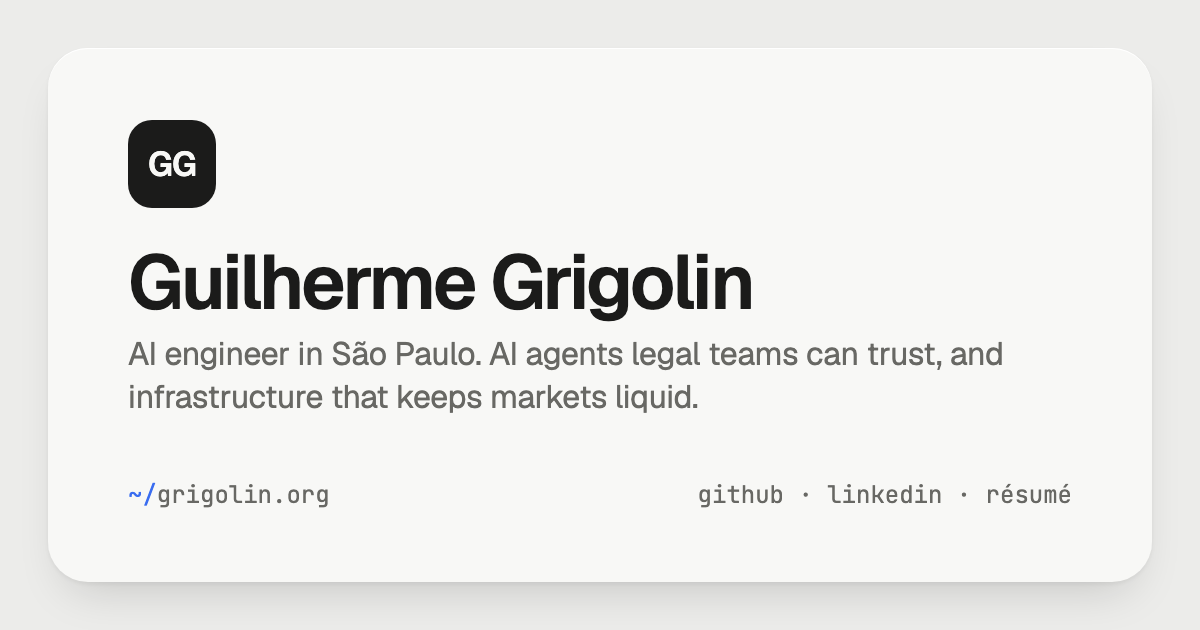
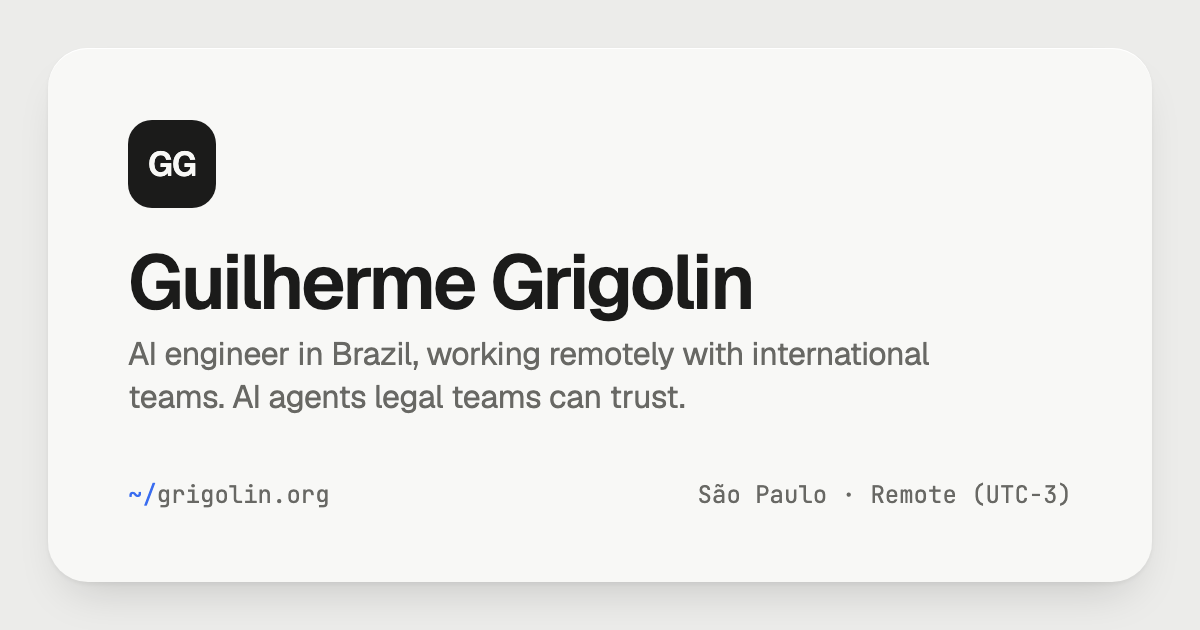
Position for remote international roles: title without city, 'working remotely with international teams', Remote (UTC−3) (#22)

Changed region(s): [[0.0925, 0.5429, 0.8325, 0.6635], [0.5858, 0.754, 0.8942, 0.8143]]

diff --git a/index.html b/index.html
@@ -3,25 +3,25 @@
 <head>
 <meta charset="UTF-8">
 <meta name="viewport" content="width=device-width, initial-scale=1, viewport-fit=cover">
-<title>Guilherme Grigolin — AI Engineer in São Paulo</title>
+<title>Guilherme Grigolin — AI Engineer · LLM agents, RAG, evals</title>
 <link rel="canonical" href="https://grigolin.org/">
-<meta name="description" content="Guilherme Grigolin is an AI engineer in São Paulo, Brazil, building a legal research agent at Concurrences. Experience, projects, résumé and contact.">
+<meta name="description" content="Guilherme Grigolin is an AI engineer building LLM agents, RAG and evals for legal research at Concurrences. Works remotely with international teams from Brazil (UTC−3).">
 <meta property="og:title" content="Guilherme Grigolin">
-<meta property="og:description" content="AI engineer in São Paulo. AI agents legal teams can trust, and infrastructure that keeps markets liquid.">
+<meta property="og:description" content="AI engineer in Brazil, working remotely with international teams. AI agents legal teams can trust, and infrastructure that keeps markets liquid.">
 <meta property="og:url" content="https://grigolin.org/">
 <meta property="og:type" content="website">
 <meta property="og:site_name" content="Guilherme Grigolin">
 <meta property="og:image" content="https://grigolin.org/images/og.png">
 <meta property="og:image:width" content="1200">
 <meta property="og:image:height" content="630">
-<meta property="og:image:alt" content="Guilherme Grigolin — AI engineer in São Paulo">
+<meta property="og:image:alt" content="Guilherme Grigolin — AI engineer, remote from Brazil">
 <meta name="twitter:card" content="summary_large_image">
 <meta property="og:locale" content="en_US">
 <meta property="og:locale:alternate" content="pt_BR">
 <meta name="author" content="Guilherme Grigolin">
 <link rel="me" href="https://github.com/grigolin">
 <link rel="me" href="https://www.linkedin.com/in/grigolin/">
-<script type="application/ld+json">{"@context":"https://schema.org","@graph":[{"@type":"ProfilePage","@id":"https://grigolin.org/#page","url":"https://grigolin.org/","name":"Guilherme Grigolin — AI Engineer","inLanguage":["en","pt-BR"],"dateModified":"2026-11-06","mainEntity":{"@id":"https://grigolin.org/#person"},"isPartOf":{"@id":"https://grigolin.org/#site"}},{"@type":"WebSite","@id":"https://grigolin.org/#site","url":"https://grigolin.org/","name":"Guilherme Grigolin","publisher":{"@id":"https://grigolin.org/#person"}},{"@type":"Person","@id":"https://grigolin.org/#person","name":"Guilherme Grigolin","alternateName":"grigolin","url":"https://grigolin.org/","email":"mailto:guigrigolin@gmail.com","jobTitle":"AI Engineer","image":"https://grigolin.org/images/guilherme-grigolin.jpg","description":"AI engineer in São Paulo, Brazil. Builds AI agents legal teams can trust, and infrastructure that keeps markets liquid.","worksFor":{"@type":"Organization","name":"Concurrences","url":"https://www.concurrences.com/"},"affiliation":{"@type":"CollegeOrUniversity","name":"Instituto Federal de São Paulo (IFSP)","alternateName":"Federal Institute of São Paulo","url":"https://www.ifsp.edu.br/"},"homeLocation":{"@type":"Place","name":"São Paulo, Brazil"},"nationality":{"@type":"Country","name":"Brazil"},"knowsLanguage":["pt-BR","en"],"knowsAbout":["Artificial intelligence","Large language models","AI agents","Retrieval-augmented generation","Legal tech","Prediction markets","Solana","Python","Go","TypeScript","LangChain","FastAPI","PostgreSQL"],"sameAs":["https://github.com/grigolin","https://www.linkedin.com/in/grigolin/"],"subjectOf":{"@type":"DigitalDocument","name":"Guilherme Grigolin — Résumé","url":"https://grigolin.org/resources/resume.pdf","encodingFormat":"application/pdf"}}]}</script>
+<script type="application/ld+json">{"@context":"https://schema.org","@graph":[{"@type":"ProfilePage","@id":"https://grigolin.org/#page","url":"https://grigolin.org/","name":"Guilherme Grigolin — AI Engineer","inLanguage":["en","pt-BR"],"dateModified":"2026-11-06","mainEntity":{"@id":"https://grigolin.org/#person"},"isPartOf":{"@id":"https://grigolin.org/#site"}},{"@type":"WebSite","@id":"https://grigolin.org/#site","url":"https://grigolin.org/","name":"Guilherme Grigolin","publisher":{"@id":"https://grigolin.org/#person"}},{"@type":"Person","@id":"https://grigolin.org/#person","name":"Guilherme Grigolin","alternateName":"grigolin","url":"https://grigolin.org/","email":"mailto:guigrigolin@gmail.com","jobTitle":"AI Engineer","image":"https://grigolin.org/images/guilherme-grigolin.jpg","description":"AI engineer in Brazil (UTC−3), working remotely with international teams. Builds AI agents legal teams can trust, and infrastructure that keeps markets liquid.","worksFor":{"@type":"Organization","name":"Concurrences","url":"https://www.concurrences.com/"},"affiliation":{"@type":"CollegeOrUniversity","name":"Instituto Federal de São Paulo (IFSP)","alternateName":"Federal Institute of São Paulo","url":"https://www.ifsp.edu.br/"},"homeLocation":{"@type":"Place","name":"São Paulo, Brazil"},"nationality":{"@type":"Country","name":"Brazil"},"knowsLanguage":["pt-BR","en"],"knowsAbout":["Artificial intelligence","Large language models","AI agents","Retrieval-augmented generation","Legal tech","Prediction markets","Solana","Python","Go","TypeScript","LangChain","FastAPI","PostgreSQL"],"sameAs":["https://github.com/grigolin","https://www.linkedin.com/in/grigolin/"],"subjectOf":{"@type":"DigitalDocument","name":"Guilherme Grigolin — Résumé","url":"https://grigolin.org/resources/resume.pdf","encodingFormat":"application/pdf"}}]}</script>
 <link rel="icon" href="/favicon.svg" type="image/svg+xml">
 <meta name="theme-color" content="#ececea" media="(prefers-color-scheme: light)">
 <meta name="theme-color" content="#0d0d0d" media="(prefers-color-scheme: dark)">
@@ -132,6 +132,7 @@ a.card:hover .arrow{transform:translate(2px,-2px);color:var(--fg)}
 .copy.done .tip{opacity:1;transform:translateX(-50%)}
 .loc{display:inline-flex;align-items:center;gap:7px;color:var(--mid);font-size:13px}
 .loc svg{width:14px;height:14px;flex:none}
+@media (max-width:560px){.loc .rm{display:none}}   /* phones: the bio already says remote, and the clock tile shows UTC−3 */
 .seg{display:inline-grid;grid-template-columns:1fr 1fr;padding:2px;border-radius:999px;background:var(--well);position:relative;isolation:isolate}
 .seg button{all:unset;cursor:pointer;position:relative;z-index:1;height:24px;min-width:34px;padding:0 9px;display:grid;place-items:center;border-radius:999px;font:500 12px/1 var(--sans);letter-spacing:.01em;color:var(--mid);transition:color .25s}
 .seg button[aria-pressed="true"]{color:var(--fg)}
@@ -534,7 +535,7 @@ footer{display:flex;justify-content:space-between;align-items:center;gap:12px;ma
         <button class="avatar" id="avatar" type="button" aria-haspopup="true" aria-expanded="false" aria-controls="vpop" data-i-aria="me.avatar" aria-label="Guilherme Grigolin: other ways to view this site"><img class="f a" src="images/avatar.jpg" alt="" width="52" height="52" decoding="async"><span class="f b" aria-hidden="true">&gt;_</span></button>
         <div class="vpop" id="vpop" role="menu" hidden><p role="presentation" data-i="me.openas">Open this site as</p><a role="menuitem" href="terminal/"><span class="ic">&gt;_</span><span data-i="view.terminal">Terminal</span><small>`</small></a><a role="menuitem" href="desktop/"><span class="ic">▣</span><span data-i="view.desktop">Desktop</span><small>startx</small></a></div>
         <h1>Guilherme Grigolin</h1>
-        <div class="bio"><p data-i-html="me.bio"><b>AI engineer</b> in São Paulo. I build AI agents legal teams can trust, and infrastructure that keeps markets liquid.</p><p class="alt" id="bioAlt" aria-hidden="true" data-nosnippet lang="pt-BR"><b>Engenheiro de IA</b> em São Paulo. Construo agentes de IA em que equipes jurídicas podem confiar, e a infraestrutura que mantém mercados líquidos.</p></div>
+        <div class="bio"><p data-i-html="me.bio"><b>AI engineer</b> in Brazil, working remotely with international teams. I build AI agents legal teams can trust, and infrastructure that keeps markets liquid.</p><p class="alt" id="bioAlt" aria-hidden="true" data-nosnippet lang="pt-BR"><b>Engenheiro de IA</b> no Brasil, trabalhando remotamente com times internacionais. Construo agentes de IA em que equipes jurídicas podem confiar, e a infraestrutura que mantém mercados líquidos.</p></div>
         <div class="mail">
           <a href="mailto:guigrigolin@gmail.com"><svg viewBox="0 0 16 16" fill="none" stroke="currentColor" stroke-width="1.4" stroke-linejoin="round" aria-hidden="true"><rect x="1.75" y="3.25" width="12.5" height="9.5" rx="2"/><path d="m2.5 4.5 5.5 4 5.5-4"/></svg><span id="email">guigrigolin@gmail.com</span></a>
           <button class="copy" id="copyEmail" type="button" data-i-aria="mail.copy" aria-label="Copy email"><svg class="cp" viewBox="0 0 16 16" fill="none" stroke="currentColor" stroke-width="1.4" stroke-linejoin="round" aria-hidden="true"><rect x="5.25" y="5.25" width="8.5" height="8.5" rx="2"/><path d="M10.75 5.25V4a1.75 1.75 0 0 0-1.75-1.75H4A1.75 1.75 0 0 0 2.25 4v5A1.75 1.75 0 0 0 4 10.75h1.25"/></svg><svg class="ok" viewBox="0 0 16 16" fill="none" stroke="currentColor" stroke-width="1.8" stroke-linecap="round" stroke-linejoin="round" aria-hidden="true"><path d="m3.5 8.5 3 3 6-7"/></svg><span class="tip" aria-hidden="true" data-i="mail.copied">Copied</span></button>
@@ -542,7 +543,7 @@ footer{display:flex;justify-content:space-between;align-items:center;gap:12px;ma
         </div>
       </div>
       <div class="foot">
-        <span class="loc"><svg viewBox="0 0 16 16" fill="none" stroke="currentColor" stroke-width="1.4" aria-hidden="true"><path d="M8 14.5s-4.75-4.2-4.75-8.06a4.75 4.75 0 0 1 9.5 0C12.75 10.3 8 14.5 8 14.5z"/><circle cx="8" cy="6.5" r="1.6"/></svg><span data-i="me.loc">São Paulo, Brazil</span></span>
+        <span class="loc"><svg viewBox="0 0 16 16" fill="none" stroke="currentColor" stroke-width="1.4" aria-hidden="true"><path d="M8 14.5s-4.75-4.2-4.75-8.06a4.75 4.75 0 0 1 9.5 0C12.75 10.3 8 14.5 8 14.5z"/><circle cx="8" cy="6.5" r="1.6"/></svg><span><span data-i="me.loc">São Paulo, Brazil</span> <span class="rm" data-i="me.rm">· Remote (UTC−3)</span></span></span>
         <div class="prefs">
         <button class="themebtn" id="themeBtn" type="button" aria-label="Theme"><svg class="sun" viewBox="0 0 16 16" fill="none" stroke="currentColor" stroke-width="1.4" stroke-linecap="round" aria-hidden="true"><circle cx="8" cy="8" r="3"/><path d="M8 1.5v1.3M8 13.2v1.3M1.5 8h1.3M13.2 8h1.3M3.4 3.4l.9.9M11.7 11.7l.9.9M3.4 12.6l.9-.9M11.7 4.3l.9-.9"/></svg><svg class="moon" viewBox="0 0 16 16" fill="none" stroke="currentColor" stroke-width="1.4" stroke-linejoin="round" aria-hidden="true"><path d="M13.5 9.6A5.6 5.6 0 0 1 6.4 2.5a5.6 5.6 0 1 0 7.1 7.1z"/></svg><span class="auto" aria-hidden="true"></span></button>
         <div class="seg" id="lang" role="group" data-i-aria="lang.aria"><span class="knob" aria-hidden="true"></span><button type="button" data-lang="en" aria-pressed="true" lang="en" aria-label="EN, English">EN</button><button type="button" data-lang="pt" aria-pressed="false" lang="pt-BR" aria-label="PT, Português">PT</button></div>
@@ -848,8 +849,8 @@ const SITES = [
 const I18N = {
   en: {
     'me.aria': 'About', 'me.avatar': 'Guilherme Grigolin: other ways to view this site', 'me.openas': 'Open this site as',
-    'me.bio': '<b>AI engineer</b> in São Paulo. I build AI agents legal teams can trust, and infrastructure that keeps markets liquid.',
-    'me.loc': 'São Paulo, Brazil', 'lang.aria': 'Language',
+    'me.bio': '<b>AI engineer</b> in Brazil, working remotely with international teams. I build AI agents legal teams can trust, and infrastructure that keeps markets liquid.',
+    'me.loc': 'São Paulo, Brazil', 'me.rm': '· Remote (UTC−3)', 'lang.aria': 'Language',
     'clock.aria': 'Local time in São Paulo', 'gh.lb': 'Code', 'li.lb': 'Network', 'cv.lb': 'PDF · 1 page', 'cv.n': 'Résumé',
     'work.aria': 'Experience', 'work.lb': 'Experience', 'work.years': (n) => `${n}+ years`, 'work.now': 'Now', 'heat.commits': 'commits in 12 months', 'heat.repos': 'repositories', 'heat.week': (n, d) => `<b>${n}</b> in the week of ${d}`,
     'g.title': 'GitHub', 'g.sub': 'Commits across all my repositories, public and private.', 'g.commits': 'Commits, 12 months', 'g.active': 'Active weeks', 'g.best': 'Busiest week', 'g.repos': 'Repositories', 'g.weekly': 'Commits per week', 'g.profile': 'Open GitHub profile', 'g.asof': (d) => `Snapshot from ${d}`,
@@ -885,8 +886,8 @@ const I18N = {
   },
   pt: {
     'me.aria': 'Sobre', 'me.avatar': 'Guilherme Grigolin: outras formas de ver este site', 'me.openas': 'Abrir este site como',
-    'me.bio': '<b>Engenheiro de IA</b> em São Paulo. Construo agentes de IA em que equipes jurídicas podem confiar, e a infraestrutura que mantém mercados líquidos.',
-    'me.loc': 'São Paulo, Brasil', 'lang.aria': 'Idioma',
+    'me.bio': '<b>Engenheiro de IA</b> no Brasil, trabalhando remotamente com times internacionais. Construo agentes de IA em que equipes jurídicas podem confiar, e a infraestrutura que mantém mercados líquidos.',
+    'me.loc': 'São Paulo, Brasil', 'me.rm': '· Remoto (UTC−3)', 'lang.aria': 'Idioma',
     'clock.aria': 'Hora local em São Paulo', 'gh.lb': 'Código', 'li.lb': 'Contato', 'cv.lb': 'PDF · 1 página', 'cv.n': 'Currículo',
     'work.aria': 'Experiência', 'work.lb': 'Experiência', 'work.years': (n) => `${n}+ anos`, 'work.now': 'Atual', 'heat.commits': 'commits em 12 meses', 'heat.repos': 'repositórios', 'heat.week': (n, d) => `<b>${n}</b> na semana de ${d}`,
     'g.title': 'GitHub', 'g.sub': 'Commits em todos os meus repositórios, públicos e privados.', 'g.commits': 'Commits, 12 meses', 'g.active': 'Semanas ativas', 'g.best': 'Semana mais ativa', 'g.repos': 'Repositórios', 'g.weekly': 'Commits por semana', 'g.profile': 'Abrir perfil no GitHub', 'g.asof': (d) => `Dados de ${d}`,

diff --git a/desktop/index.html b/desktop/index.html
@@ -12,12 +12,12 @@
 <meta property="og:image" content="https://grigolin.org/images/og.png">
 <meta property="og:image:width" content="1200">
 <meta property="og:image:height" content="630">
-<meta property="og:image:alt" content="Guilherme Grigolin — AI engineer in São Paulo">
+<meta property="og:image:alt" content="Guilherme Grigolin — AI engineer, remote from Brazil">
 <meta name="twitter:card" content="summary_large_image">
 <meta property="og:title" content="Guilherme Grigolin">
 <meta property="og:url" content="https://grigolin.org/desktop/">
-<meta name="description" content="Guilherme Grigolin's site as a desktop: AI engineer in São Paulo. About, work, projects and résumé in windows.">
-<meta property="og:description" content="Guilherme Grigolin's site as a desktop: AI engineer in São Paulo. About, work, projects and résumé in windows.">
+<meta name="description" content="Guilherme Grigolin's site as a desktop: AI engineer in Brazil, working remotely with international teams. About, work, projects and résumé in windows.">
+<meta property="og:description" content="Guilherme Grigolin's site as a desktop: AI engineer in Brazil, working remotely with international teams. About, work, projects and résumé in windows.">
 <meta name="theme-color" content="#dfe2e8" media="(prefers-color-scheme: light)">
 <meta name="theme-color" content="#121317" media="(prefers-color-scheme: dark)">
 <link rel="preload" href="../fonts/geist-latin.woff2" as="font" type="font/woff2" crossorigin>
@@ -548,7 +548,7 @@ kbd{font:500 11px var(--sans);padding:1px 5px;border-radius:4px;background:rgba(
   <div class="h-date" id="hdate">São Paulo</div>
   <nav class="vsw home-vsw" aria-label="View this site as"><a href="../">Desk</a><a href="../terminal/">Terminal</a><span aria-current="page">Desktop</span></nav>
   <button class="widget" data-open="about">
-    <span class="head"><span class="avatar" aria-hidden="true">GG</span><span><b>Guilherme Grigolin</b><span class="r">AI Engineer · São Paulo</span></span></span>
+    <span class="head"><span class="avatar" aria-hidden="true">GG</span><span><b>Guilherme Grigolin</b><span class="r">AI Engineer · Remote (UTC−3)</span></span></span>
     <span class="p">I build AI agents legal teams can trust, and infrastructure that keeps markets liquid.</span>
     <span class="now"><i></i>Building a legal research agent at Concurrences</span>
   </button>
@@ -574,7 +574,7 @@ kbd{font:500 11px var(--sans);padding:1px 5px;border-radius:4px;background:rgba(
 <section class="win" id="w-about" data-app="about" role="dialog" aria-label="About" tabindex="-1" hidden>
   <div class="tb"><span class="grabber"></span><div class="lights"><button class="c" aria-label="Close"><svg><use href="#x-close"/></svg></button><button class="m" aria-label="Minimize"><svg><use href="#x-min"/></svg></button><button class="z" aria-label="Zoom"><svg><use href="#x-zoom"/></svg></button></div><span class="t">About</span><button class="done">Done</button></div>
   <div class="body about">
-    <div class="head"><span class="avatar" aria-hidden="true">GG</span><div><h1>Guilherme Grigolin</h1><div class="role">AI Engineer · São Paulo, Brazil</div></div></div>
+    <div class="head"><span class="avatar" aria-hidden="true">GG</span><div><h1>Guilherme Grigolin</h1><div class="role">AI Engineer · São Paulo, Brazil · Remote (UTC−3)</div></div></div>
     <p>I build AI agents legal teams can trust, and infrastructure that keeps markets liquid. Right now that means a legal research agent at <a href="https://www.concurrences.com/" target="_blank" rel="noopener">Concurrences</a>, while I finish a B.S. in Information Systems at <a href="https://vtp.ifsp.edu.br/" target="_blank" rel="noopener">IFSP</a>.</p>
     <dl class="kv">
       <dt>Now</dt><dd>AI Engineer, Concurrences</dd>
@@ -1158,7 +1158,7 @@ $('#tlogin').textContent = new Date().toDateString().replace(/ \d{4}$/, '') + ' 
 $('#tbody').addEventListener('click', () => { if (!getSelection().toString()) tin.focus({ preventScroll: true }); });
 const CMD = {
   help: () => 'about  work  projects  open <app>  resume  github  linkedin  date  clear  desk  tty',
-  about: () => 'Guilherme Grigolin — AI engineer, São Paulo.\nAI agents legal teams can trust; infrastructure that keeps markets liquid.',
+  about: () => 'Guilherme Grigolin — AI engineer in Brazil, working remotely with international teams.\nAI agents legal teams can trust; infrastructure that keeps markets liquid.',
   whoami: () => 'guest',
   ls: () => 'About  Work  Projects  Résumé  Notes  Valley',
   work: () => DATA.work.map(w => `${w.y.padEnd(9)}${w.n} — ${w.r}`).join('\n'),

diff --git a/terminal/index.html b/terminal/index.html
@@ -11,14 +11,14 @@
 <meta property="og:image" content="https://grigolin.org/images/og.png">
 <meta property="og:image:width" content="1200">
 <meta property="og:image:height" content="630">
-<meta property="og:image:alt" content="Guilherme Grigolin — AI engineer in São Paulo">
+<meta property="og:image:alt" content="Guilherme Grigolin — AI engineer, remote from Brazil">
 <meta name="twitter:card" content="summary_large_image">
 <meta name="theme-color" content="#fbfaf6" media="(prefers-color-scheme: light)">
 <meta name="theme-color" content="#0f0f0e" media="(prefers-color-scheme: dark)">
 <meta property="og:title" content="Guilherme Grigolin">
 <meta property="og:url" content="https://grigolin.org/terminal/">
-<meta name="description" content="Guilherme Grigolin's site as a terminal: AI engineer in São Paulo. Work, projects and stack, keyboard-first.">
-<meta property="og:description" content="Guilherme Grigolin's site as a terminal: AI engineer in São Paulo. Work, projects and stack, keyboard-first.">
+<meta name="description" content="Guilherme Grigolin's site as a terminal: AI engineer in Brazil, working remotely with international teams. Work, projects and stack, keyboard-first.">
+<meta property="og:description" content="Guilherme Grigolin's site as a terminal: AI engineer in Brazil, working remotely with international teams. Work, projects and stack, keyboard-first.">
 <script>try{var t=localStorage.getItem('theme');if(t==='light'||t==='dark')document.documentElement.dataset.theme=t}catch(e){}</script>
 <link rel="preload" href="../fonts/jetbrains-mono-latin.woff2" as="font" type="font/woff2" crossorigin>
 <style>
@@ -197,12 +197,12 @@ dialog.vx::backdrop{background-color:color-mix(in srgb,var(--bg) 55%,transparent
 
   <div class="about" id="about">
     <h1>Guilherme Grigolin</h1>
-    <p>AI engineer in São Paulo, Brazil. I build AI agents legal teams can trust, and infrastructure that keeps markets liquid. Currently at <a href="https://www.concurrences.com/">Concurrences</a>; finishing a B.S. in Information Systems at <a href="https://vtp.ifsp.edu.br/">IFSP</a>.</p>
+    <p>AI engineer in Brazil, working remotely with international teams. I build AI agents legal teams can trust, and infrastructure that keeps markets liquid. Currently at <a href="https://www.concurrences.com/">Concurrences</a>; finishing a B.S. in Information Systems at <a href="https://vtp.ifsp.edu.br/">IFSP</a>.</p>
     <ul>
       <li><span><span class="kd">GitHub</span><a href="https://github.com/grigolin">grigolin</a></span></li>
       <li><span><span class="kd">LinkedIn</span><a href="https://www.linkedin.com/in/grigolin/">in/grigolin</a></span></li>
       <li><span><span class="kd">Resume</span><a href="../resources/resume.pdf">resume.pdf</a></span></li>
-      <li><span><span class="kd">Location</span>São Paulo, BR <span class="dim">(<span id="clock">--:--</span> local)</span></span></li>
+      <li><span><span class="kd">Location</span>São Paulo, BR · remote <span class="dim">(UTC−3, <span id="clock">--:--</span> local)</span></span></li>
     </ul>
   </div>
 

diff --git a/garden/index.html b/garden/index.html
@@ -11,7 +11,7 @@
 <meta property="og:image" content="https://grigolin.org/images/og.png">
 <meta property="og:image:width" content="1200">
 <meta property="og:image:height" content="630">
-<meta property="og:image:alt" content="Guilherme Grigolin — AI engineer in São Paulo">
+<meta property="og:image:alt" content="Guilherme Grigolin — AI engineer, remote from Brazil">
 <meta name="twitter:card" content="summary_large_image">
 <meta property="og:title" content="Garden · Guilherme Grigolin">
 <meta property="og:url" content="https://grigolin.org/garden/">

diff --git a/docs/NOTES.md b/docs/NOTES.md
@@ -20,7 +20,7 @@ What was built in the Nov 2026 redesign, why it is the way it is, and the gotcha
 - `images/guilherme-grigolin.jpg` (512 px) is the canonical photo: JSON-LD `image`, and linked from the side sites' author pages. `images/avatar.jpg` (112 px) is the Desk avatar. Re-crop both from the same source if the photo changes.
 - **Search engines.** grigolin.org is a verified **Domain** property in Google Search Console (account guigrigolin@gmail.com), verified by a TXT record at Porkbun (`google-site-verification=…`). **Don't delete that record.** The sitemap is submitted and indexing was requested on 6 Nov 2026. The same account has surebet, bitcoinhub and sniperdeals. All four sites are also in Bing Webmaster Tools (imported from Search Console); Bing feeds ChatGPT search and Copilot.
 - **One person, one id.** The `Person` here has `@id` `https://grigolin.org/#person`. The author pages on surebet.com.br, bitcoinhub.com.br and sniperdeals.com.br (`/sobre`) point at that same `@id` and `url` and link here, so search engines merge them into one entity. If the bio, job or profiles change, update them here and in those three repos.
-- **Positioning.** The same first phrase is used everywhere: "AI Engineer @ Concurrences · LLM agents, RAG and evals for legal research" (LinkedIn headline, GitHub bio, the profile README in `grigolin/grigolin`). Keep them in step; matching wording is what lets answer engines connect the profiles. No "Full-stack", no "Senior".
+- **Positioning.** The same first phrase is used everywhere: "AI Engineer @ Concurrences · LLM agents, RAG and evals for legal research" (LinkedIn headline, GitHub bio, the profile README in `grigolin/grigolin`). Keep them in step; matching wording is what lets answer engines connect the profiles. No "Full-stack", no "Senior". **Location** is framed for remote, international roles: the title has no city; copy says "in Brazil, working remotely with international teams" and the profile footer "São Paulo, Brazil · Remote (UTC−3)" (the remote part is hidden under 560 px, where the bio already says it). JSON-LD keeps `homeLocation` São Paulo. `images/og.png` is rendered from an HTML template with Playwright; re-render it if the tagline changes.
 - **Surebet** stays on the Desk and in `llms.txt`, reframed as odds math plus a licensing tracker and listed last (a recruiter, brand and SEO review agreed hiding it gains nothing, since surebet's own page already names you).
 - **Checking the pre-rendered lists:** render the page headless and compare `#xp`/`#sites` `innerHTML` with the static markup (ignore the `.m` metric chips, which load from `data/sites.json`).
 
